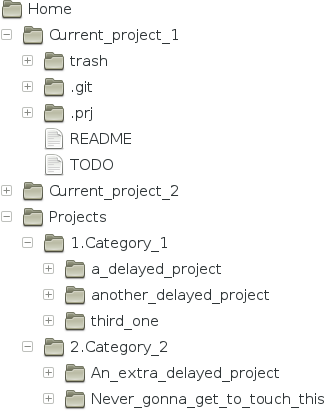
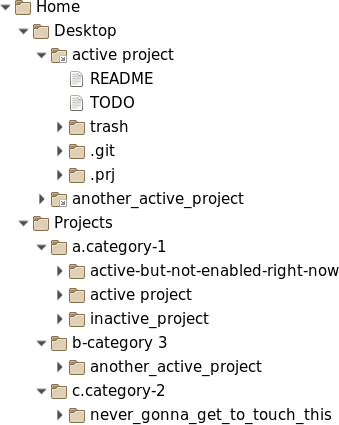
Updates the webpage to reflect recent changes.
Now the documentation is not as horribly outdated as it wes.

diff --git a/index.html b/index.html
@@ -54,25 +54,25 @@
 	<p class="normal">You shouldn't be afraid to change the code to fit your needs. Take your medicine. Eat your vegetables. Learn the shell. Try harder.</p>
 	<p class="normal">This script is called <span class="code">prj</span>, but it can be called anything you want, really. Just change the name of the file. If you do that, then remember to rename the <span class="code">.prj</span> configuration subdirectory accordingly in every project as well. More on that in a short while.</p>
 	<p class="normal">We will use the <span class="code">prj</span> default name throughout our present documentation effort.</p>
-	<p class="normal">The whole idea is that you keep your work organised into projects in your home directory. Each project in its own directory, placed, itself, in special directories corresponding to categories.</p>
-	<p class="normal">If you dare to look inside the script (and you really should, as we discussed before), you'll notice there is a place to name the directory that will be hosting your current projects (the working category). Another directory will host all other categories, containing, themselves, other projects. Each project is, itself, a directory with some standard content inside to make the project manageable by the script.</p>
+	<p class="normal">The whole idea is that you keep your work organised into projects. Each project in its own directory, placed, itself, in one of some special directories corresponding to categories you create yourself.</p>
+	<p class="normal">If you dare to look inside the script (and you really should, as we discussed before), you'll notice there is a place to name the directory that will be hosting your current projects (the working category, or, as usualy is named, the <span class="code">Desktop</span>). Another directory will host all other categories, containing, themselves, other projects. Each project is, itself, a directory with some standard content inside to make the project manageable by the script.</p>
 	<p class="normal">Here's the required screenshot:</p>
 	<figure>
 	  <img src="screenshot.png" alt="directory tree screenshot">
 	  <figcaption>Directory tree screenshot</figcaption>
 	</figure>
-	<p class="normal">Except for the working category, that has a virtual name and prefix, which you can assign changing the values of the variables <span class="code">workingcategoryname</span> and <span class="code">workingcategoryprefix</span>, categories are named and prefixed after their directory names. Anything before a first dot in the name of the directory is the prefix. Anything after that is the category name. The prefix is used to sort them and as a short name for the category. So, if you want your <span class="code">VeryUrgent</span> category to come before <span class="code">QuiteUrgent</span> category, and that before <span class="code">NotUrgent</span>, name the directories <span class="code">a.VeryUrgent</span>, <span class="code">b.QuiteUrgent</span> and <span class="code">c.NotUrgent</span>, for example.</p>
+	<p class="normal">You'll notice the <span class="code">Projects</span> directory is not a subdirectory of the <span class="code">Desktop</span>. That is so that it doesn't count as a project itself. The directory containing your categories (which contain themselves the projects) should not be one. You can arrange it to be hidden or somehow outside of your working directory.</p>
+	<p class="normal">Categories are the directories directly inside the projects directory (there is only one level of categories). They are named and prefixed after their directory names. Anything before a first dot in the name of the directory is the prefix. Anything after that is the category name. The prefix is used to sort them and as a short name for the category. So, if you want your <span class="code">VeryUrgent</span> category to come before <span class="code">QuiteUrgent</span> category, and that before <span class="code">NotUrgent</span>, name the directories <span class="code">a.VeryUrgent</span>, <span class="code">b.QuiteUrgent</span> and <span class="code">c.NotUrgent</span>, for example.</p>
 	<p class="normal">You can refer to the category by its name or by its prefix. Which is handy, since it's short.</p>
-	<p class="normal">The prefix will not, normally, be shown unless you dig manually inside the categories directory.</p>
+	<p class="normal">The prefix will not, normally, be shown unless you dig manually inside the projects directory.</p>
 	<p class="normal">Each category can, then, hold as many projects as you like. Use them to categorise your projects by whatever criteria you might come up with. Just choose wisely or you'll be very sorry very soon.</p>
-	<p class="normal">By default, the working category is named <span class="code">Desktop</span> and its prefix is <span class="code">0</span> (that's a zero).</p>
 	<p class="normal">You can move projects from one category to another as you see fit.</p>
 	<p class="normal">Projects are the <em>atoms</em> of the whole thing.</p>
 	<p class="normal">Each project is a directory stored inside one of the categories. Let's take a look at what should be inside that directory.</p>
 	<p class="normal">1. A <span class="code">.git</span> subdirectory. You can delete it if you don't want the project under git. Because of git, you might also have a <span class="code">.gitignore</span> file. You can use this file to tell git to ignore the <span class="code">trash</span> directory, if you wish (see below).</p>
-	<p class="normal">2. The <span class="code">.prj</span> subdirectory. This is a configuration directory. You can use it to store a few items that, not being meant to be seen, are important for the behaviour of the script in relation to the particular project it is placed under.</p>
+	<p class="normal">2. The <span class="code">.prj</span> subdirectory. This is a configuration directory. You can use it to store a few items that, not being meant to be seen, are important for the behaviour of the script in relation to the particular project it is placed under. Keep it, you need it.</p>
 	<p class="normal">The name of this directory is <span class="code">.prj</span> because the default name of the script is <span class="code">prj</span>. If ever you choose to rename the script something else, you have to change the name of this directory accordingly in every ancient project. Just look for how to use the for loop in your shell's manual. New projects will have it correctly named.</p>
-	<p class="normal">Inside this directory you can place scripts, meant to be run both: by the script using the mechanism prepared for that, and manually. For that to work, and for a nice integration with the script, the scripts must be executable files (obviously) named whatever you like but with a <span class="code">.sh</span> extension. They must, also, print to <span class="code">stdout</span> a little self description if called with <span class="code">aboutme</span> as first and only argument, and a help message, if that argument is <span class="code">help</span>.</p>
+	<p class="normal">Inside this directory you can place scripts, meant to be run both: by the script using the mechanism prepared for that, and manually. For that to work, and for a nice integration with the script, the scripts must be executable files (obviously) named whatever you like but with a <span class="code">.sh</span> extension. They must, also, print to <span class="code">stdout</span> a line with a little self description if called with <span class="code">aboutme</span> as first and only argument, and a help message, if that argument is <span class="code">help</span>.</p>
 	<p class="normal">You can also place special files indicating the relationship the project has with other projects. The script recognises any file called <span class="code">depends-&lt;projectname&gt;</span> as a dependency on that project so far, and refuses to archive a project that still has dependencies. The content of these files is not used by the script at the moment, so you can use it to store notes about the reason why a project might be dependent on another.</p>
 	<p class="normal">You can also make use of this directory for other means you make up yourself (the idea of logs comes to mind, or new relations).</p>
 	<p class="normal">It is a good idea to keep this directory under git control.</p>
@@ -85,12 +85,10 @@
 	<p class="normal">The script accepts what we call <em>verbs</em> (they might not be actual verbs, in the grammatical sense) as its first argument. If you don't provide a valid one, it will fail printing a standard help message to <span class="code">stdout</span> and fail.</p>
 	<p class="normal">If you do provide one of the following, the script will execute as follows:</p>
 	<dl>
-	  <dt>do</dt>
-	  <dd>The script will drop you in a subshell inside the directory of the project. If it is not in the working directory it will be moved there. The prompt will change to something meaningful to the project and easily recognisable. When you exit the subshell, some information might be provided to you and the script will terminate.</dd>
 	  <dt>done</dt>
 	  <dd>The project entered as next argument will be packed with a timestamp prefixed to its name and moved to the archives directory.</dd>
 	  <dt>find</dt>
-	  <dd>Will search for a string of text in every <span class="code">REDME</span> and <span class="code">TODO</span> file.</dd>
+	  <dd>Will search for a string of text in every <span class="code">REDME</span> and <span class="code">TODO</span> file. Haven't I told you the for loop of your shell is awesome?</dd>
 	  <dt>fix</dt>
 	  <dd>Will turn a standard directory into a valid project or try to fix an invalid one (creating the <span class="code">README</span> and <span class="code">TODO</span> files, the <span class="code">trash</span> and <span class="code">.prj</span> subdirectories and initialising the <abbr title="Version Control System">VCS</abbr>).</dd>
 	  <dt>help</dt>
@@ -100,9 +98,9 @@
 	  <dt>killcategory</dt>
 	  <dd>Will kill an empty category by deleting its directory.</dd>
 	  <dt>list or ls</dt>
-	  <dd>If category names are provided as arguments only projects in said categories will be listed preceded by an empty line and the category name inside square brackets. If none is specified, all categories are listed, including the working category.</dd>
+	  <dd>If category names are provided as arguments only projects in said categories will be listed. If none is specified, all categories are listed preceded by an empty line and the category name inside square brackets.</dd>
 	  <dt>listarchives or lsa</dt>
-	  <dd>will list the projects you archived.</dd>
+	  <dd>Will list the projects you archived.</dd>
 	  <dt>listcategories or lsc</dt>
 	  <dd>Will print the categories names. Simple.</dd>
 	  <dt>listprojects or lsp</dt>
@@ -110,25 +108,31 @@
 	  <dt>move or mv</dt>
 	  <dd>Will move a project from one category to another.</dd>
 	  <dt>new</dt>
-	  <dd>Will create a new project in your working directory with all it needs: the <span class="code">README</span> and <span class="code">TODO</span> files, the <span class="code">.prj</span> and "trash" subdirectories and, if you have git, the project will be initialised and will, therefore, have a <span class="code">.git</span> subdirectory.</dd>
+	  <dd>Will create a new project in your firs category with all it needs: the <span class="code">README</span> and <span class="code">TODO</span> files, the <span class="code">.prj</span> and <span class="code">trash</span> subdirectories and, if you have a VCS system, the project will be initialised in that VCS.</dd>
 	  <dt>newcategory</dt>
 	  <dd>Creates a new category. This one was easy.</dd>
 	  <dt>read</dt>
 	  <dd>Will open the <span class="code">README</span> file in your preferred text editor.</dd>
 	  <dt>redo</dt>
-	  <dd>Will unarchive the last version of an archived project and place it in your working category. The archive will not be removed.</dd>
+	  <dd>Will unarchive the last version of an archived project and place it in your first category. The archive will not be removed.</dd>
 	  <dt>rename or rn</dt>
 	  <dd>Renames a project. Easy too.</dd>
+	  <dt>renamecategory or rnc</dt>
+	  <dd>Will rename a category (include a prefix in the new name).</dd>
 	  <dt>run</dt>
-	  <dd>runs a script belonging to a given project, stored in its <span class="code">.prj</span> directory. You don't include the <span class="code">.sh</span> suffix in the name of the script when calling it using this mechanism. All remaining arguments will be passed to the script.</dd>
-	  <dt>search</dt>
-	  <dd>Searches for the rest of the arguments as a string in the names of all projects and in the <span class="code">README</span> and <span class="code">TODO</span> files of all projects. Haven't I told you the for loop of your shell is awesome?</dd>
+	  <dd>Runs a script belonging to a given project, stored in its <span class="code">.prj</span> directory. You don't include the <span class="code">.sh</span> suffix in the name of the script when calling it using this mechanism. All remaining arguments will be passed to the script.</dd>
+	  <dt>start</dt>
+	  <dd>Will link to the project's dirctory from you working directory (handy).</dd>
 	  <dt>status</dt>
 	  <dd>Prints a nice overview of the current situation. If the name of at least one project or category is provided, it will print more detailed information about that particular project(s) or categor(y|ies).</dd>
+	  <dt>stop</dt>
+	  <dd>Will remove the link to the project's dirctory from you working directory.</dd>
 	  <dt>todo</dt>
 	  <dd>Will open the <span class="code">TODO</span> file in your preferred text editor.</dd>
 	  <dt>undone</dt>
 	  <dd>Just like <span class="code">redo</span>, it will unarchive an archived project, but will remove the archive as if you had never archived it in the first place.</dd>
+	  <dt>version or v</dt>
+	  <dd>Will spit its version information.</dd>
 	</dl>
 	<p class="normal">In every other case, if anything else is entered in the place of the verb, the script will complain printing the standard help message and failing.</p>
 	<p class="normal">Type <span class="code">prj help</span> in your shell prompt to see the following help message:</p>
@@ -136,20 +140,19 @@
 prj - A program to help you manage your projects and your chaotic home directory.
 
 Usage:
-prj [do] &lt;projectname&gt;
-prj [done | fix | kill] &lt;projectname(s)&gt;
-prj [help | listarchives|lsa | listcategories|lsc]
-prj [killcategory] &lt;categoryname(s)&gt;
+prj [help | listcategories|lsc | version|v]
+prj [redo | undone] &lt;archive(s)&gt;
+prj [renamecategory|rnc] &lt;categoryname&gt; &lt;categoryname&gt;
+prj [killcategory | newcategory] &lt;categoryname(s)&gt;
 prj [list|ls | listprojects|lsp] [&lt;categoryname(s)&gt;]
+prj [status|st] [&lt;categoryname(s)&gt;|&lt;projectname(s)&gt;]
+prj [find] &lt;expression&gt;
+prj [listarchives|lsa ] [&lt;expression(s)&gt;]
 prj [move|mv] &lt;projectname&gt; &lt;categoryname&gt;
-prj [new] &lt;projectname(s)&gt;
-prj [newcategory] &lt;categoryname(s)&gt;
-prj [read | todo] &lt;projectname&gt;
+prj [read | start | stop | todo] &lt;projectname&gt;
 prj [rename|rn] &lt;projectname&gt; &lt;projectname&gt;
 prj [run] &lt;projectname&gt; &lt;scriptname&gt; [&lt;scriptargument(s)]
-prj [find] &lt;expression&gt;
-prj [status|st] [&lt;categoryname(s)&gt;|&lt;projectname(s)&gt;]
-prj [redo | undone] &lt;archive(s)&gt;</samp></pre>
+prj [done | fix | kill | new] &lt;projectname(s)&gt;</samp></pre>
 	<p class="normal">Hope this was helpfull and you can now start using the script.</p>
 	<p class="normal">In order to proceed with your investigations and access the download and contact pages, head over to the initial page.</p>
 	<p class="link"><a href="#main"><img alt="back icon" src="back.png" /><br />Go Home!</a></p>
@@ -238,8 +241,9 @@ NextAlbumTitle</samp></pre>
 	<p>If you are under windows, it might be more convenient to donwload the zip file.</p>
 	<p class="link"><a href="https://github.com/lab-rasparta-org/prj/zipball/master"><img alt="download icon" src="download.png" /><br />Get the zip file instead.</a></p>
 	<p>You can also download just the <span class="code">prj</span> script itself.<br />
-	  You might need to right-click the link and choose "<span class="code">Save Link As...</span>" from the dropdown menu.<br />
+	  You might need to right-click the link and choose something like" <span class="code">Save Link As...</span>" from the dropdown menu.<br />
 	  Just remember to set the permissions correctly afterwads.</p>
+<pre  class="input"><samp><ul><li>chmod u+x prj</li></ul></samp></pre>
 	<p class="link"><a href="https://raw.githubusercontent.com/lab-rasparta-org/prj/master/prj" target="_blank"><img alt="download icon" src="download.png" /><br />Just the main thing.</a></p>
 	<p>To know more about it or get in touch, head over to the main page.</p>
 	<p class="link"><a href="#main"><img alt="back icon" src="back.png" /><br />Go Home!</a></p>
